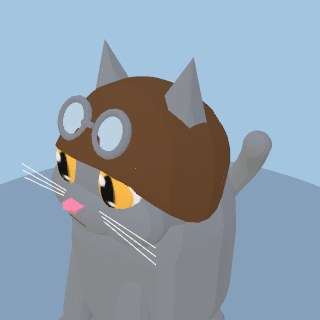
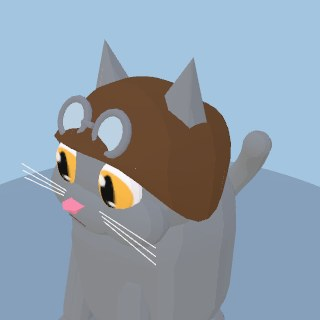
Accessory fit round 4: chef band, helmet stripe + strap, aviator scoop, beanie size
- Chef toque's band slimmed (r0.48-0.51) so it rides clear of the ears;
  the puff keeps its full molded pleated shape.
- Racing helmet: the stripe is now PAINTED ON — two thin partial-lathe
  strips of the shell's own profile (+0.015) at the front and back
  azimuths, meeting at the apex, lying flush on the surface. The chin
  strap tilts about x so its lower arc swings forward under the jaw
  instead of slicing vertically across the face.
- Aviator skirt scoops higher (target y0.44, side falloff ^3) so the
  front edge sits above the eyes.
- Beanie grown (cap r0.72, cuff r0.66) so it caps the skull cleanly.

Catalog thumbnails regenerated.

Claude-Session: https://claude.ai/code/session_017fyz1DfGtQ1NoLSq3UX5Bd

Changed region(s): [[0.1562, 0.375, 0.625, 0.7188], [0.625, 0.3125, 0.75, 0.4688]]

diff --git a/src/models.js b/src/models.js
@@ -1141,12 +1141,12 @@ export function createCat(furColor = 0xf0a830, opts = {}) {
     }  } else if (accId === "beanie") {
     // bobble beanie
     const m = accMat(accCol);
-    const cap = new THREE.Mesh(new THREE.SphereGeometry(0.66, 16, 12, 0, Math.PI * 2, 0, Math.PI / 2), m);
-    cap.position.set(0, 0.36, 0); cap.scale.set(1, 0.92, 1); acc.add(cap);
-    const cuff = new THREE.Mesh(new THREE.TorusGeometry(0.6, 0.1, 8, 18), accMat(0xffffff));
-    cuff.position.set(0, 0.4, 0); cuff.rotation.x = Math.PI / 2; acc.add(cuff);
+    const cap = new THREE.Mesh(new THREE.SphereGeometry(0.72, 16, 12, 0, Math.PI * 2, 0, Math.PI / 2), m);
+    cap.position.set(0, 0.34, 0); cap.scale.set(1, 0.9, 1); acc.add(cap);
+    const cuff = new THREE.Mesh(new THREE.TorusGeometry(0.66, 0.1, 8, 18), accMat(0xffffff));
+    cuff.position.set(0, 0.38, 0); cuff.rotation.x = Math.PI / 2; acc.add(cuff);
     const pom = new THREE.Mesh(new THREE.SphereGeometry(0.14, 10, 10), accMat(0xffffff));
-    pom.position.set(0, 0.96, 0); acc.add(pom);  } else if (accId === "flower") {
+    pom.position.set(0, 1.0, 0); acc.add(pom);  } else if (accId === "flower") {
     // flower tucked forward of one ear — laid on a tangent plane to the skull so
     // the whole bloom sits flat ON the surface (never dipping into head or ear).
     const fn = new THREE.Vector3(0.6, 0.72, 0.36).normalize();   // outward direction
@@ -1381,11 +1381,11 @@ export function createCat(furColor = 0xf0a830, opts = {}) {
     // flaps hang OUTSIDE the cheeks instead of vanishing into them.
     const profile = [[0.8, -0.28], [0.83, 0.0], [0.78, 0.28], [0.66, 0.52], [0.46, 0.7], [0.22, 0.8], [0, 0.82]];
     const geo = latheDeform(profile, 36, (v, theta) => {
-      if (v.y < 0.36) {
+      if (v.y < 0.44) {
         // skirt zone: scoop the front high over the eyes and the back off the
         // nape; only a narrow arc at each side keeps hanging as the flaps
-        const side = Math.pow(Math.abs(Math.sin(theta)), 2.4);
-        v.y += (0.36 - v.y) * (1 - side);
+        const side = Math.pow(Math.abs(Math.sin(theta)), 3);
+        v.y += (0.44 - v.y) * (1 - side);
       }
     });
     const cap = new THREE.Mesh(geo, m);
@@ -1410,18 +1410,30 @@ export function createCat(furColor = 0xf0a830, opts = {}) {
     const profile = [[0.68, 0.26], [0.71, 0.34], [0.68, 0.5], [0.56, 0.68], [0.38, 0.8], [0.18, 0.86], [0, 0.88]];
     const shell = new THREE.Mesh(latheDeform(profile, 36), m);
     shell.position.set(0, 0.12, 0.0); shell.scale.set(1.18, 0.95, 1.12); acc.add(shell);
-    const stripe = new THREE.Mesh(new THREE.TorusGeometry(0.66, 0.04, 8, 24, Math.PI), accMat(0xf0f0f0, 0.4));
-    stripe.rotation.y = -Math.PI / 2; // arc runs nose-to-nape over the dome
-    stripe.position.set(0, 0.14, 0.0); stripe.scale.set(1, 0.9, 1.1); acc.add(stripe);
+    // PAINTED-ON stripe: two thin partial-lathe strips of the shell's own
+    // profile (+0.015), one at the front azimuth and one at the back, meeting
+    // at the apex — a nose-to-nape line lying flush on the shell surface.
+    const stripeMat = new THREE.MeshStandardMaterial({ color: 0xf0f0f0, roughness: 0.5, side: THREE.DoubleSide });
+    const sp = profile.map(([r, y]) => new THREE.Vector2(r + 0.015, y));
+    for (const phi0 of [-0.09, Math.PI - 0.09]) {
+      const sg = new THREE.LatheGeometry(sp, 8, phi0, 0.18);
+      sg.computeVertexNormals();
+      const strip = new THREE.Mesh(sg, stripeMat);
+      strip.position.set(0, 0.12, 0.0); strip.scale.set(1.18, 0.95, 1.12);
+      acc.add(strip);
+    }
     const peak = new THREE.Mesh(rbox(0.56, 0.05, 0.3, 0.04), accMat(0x1a1f26, 0.3, 0.3));
     peak.position.set(0, 0.5, 0.74); peak.rotation.x = -0.25; acc.add(peak);
-    const strap = new THREE.Mesh(new THREE.TorusGeometry(0.6, 0.028, 6, 24), accMat(0x3a3f46, 0.5));
-    strap.position.set(0, 0.2, 0.32); strap.scale.set(1.12, 1.0, 1); acc.add(strap);  } else if (accId === "chef") {
+    // Chin strap TILTED about x so its lower arc swings forward UNDER the
+    // jaw (and its upper arc leans back inside the shell) instead of a
+    // vertical ring slicing across the face.
+    const strap = new THREE.Mesh(new THREE.TorusGeometry(0.64, 0.028, 6, 24), accMat(0x3a3f46, 0.5));
+    strap.position.set(0, 0.24, 0.3); strap.rotation.x = -0.5; strap.scale.set(1.1, 1.0, 1); acc.add(strap);  } else if (accId === "chef") {
     // toque — ONE lathed shape: straight band flowing into a puffy ballooned
     // top, with vertical PLEATS (a gentle cos-5θ scallop) carved into the
     // puff's own surface — a molded chef's hat, not a ball on a tube.
     const m = new THREE.MeshStandardMaterial({ color: accCol, roughness: 0.85, side: THREE.DoubleSide });
-    const profile = [[0.53, 0.45], [0.55, 0.62], [0.54, 0.74], [0.63, 0.84], [0.67, 1.0], [0.6, 1.16], [0.44, 1.28], [0.22, 1.34], [0, 1.36]];
+    const profile = [[0.48, 0.45], [0.5, 0.62], [0.51, 0.74], [0.62, 0.84], [0.67, 1.0], [0.6, 1.16], [0.44, 1.28], [0.22, 1.34], [0, 1.36]]; // slim band, full puff — the band stays clear of the ears
     const geo = latheDeform(profile, 40, (v, theta) => {
       if (v.y > 0.78) {
         // pleat the puff; fade the scallop in above the band
